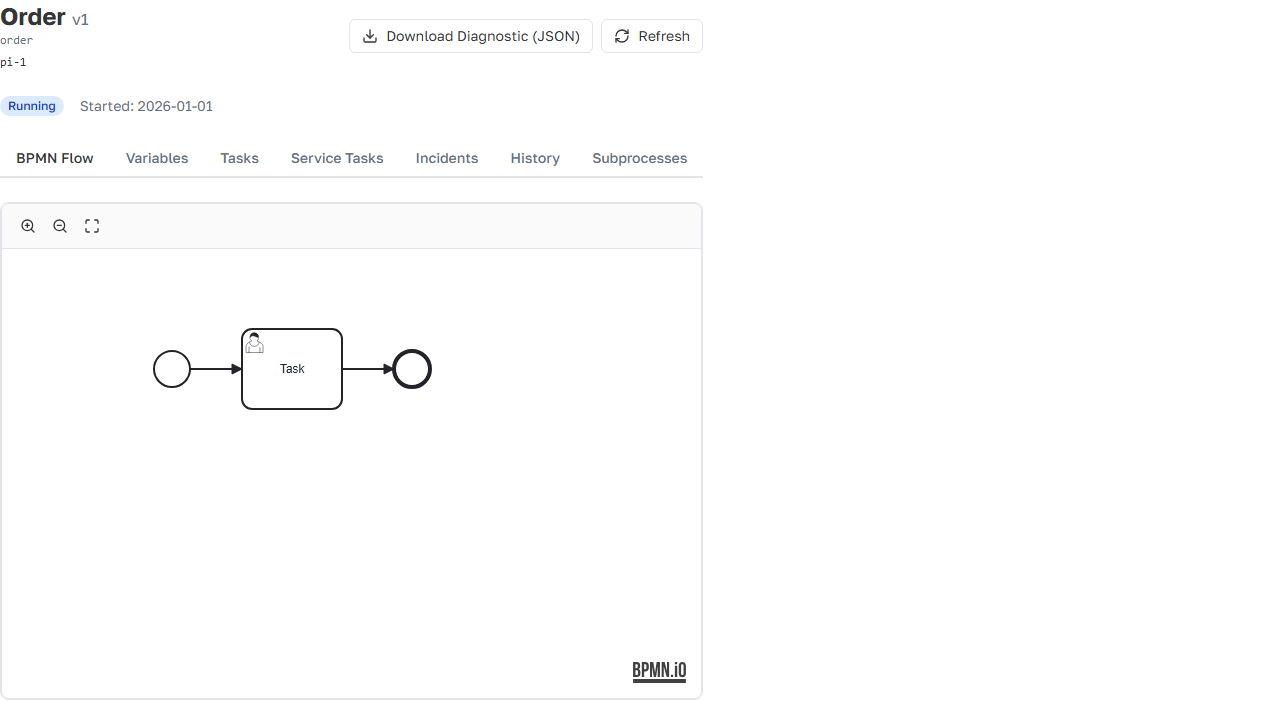
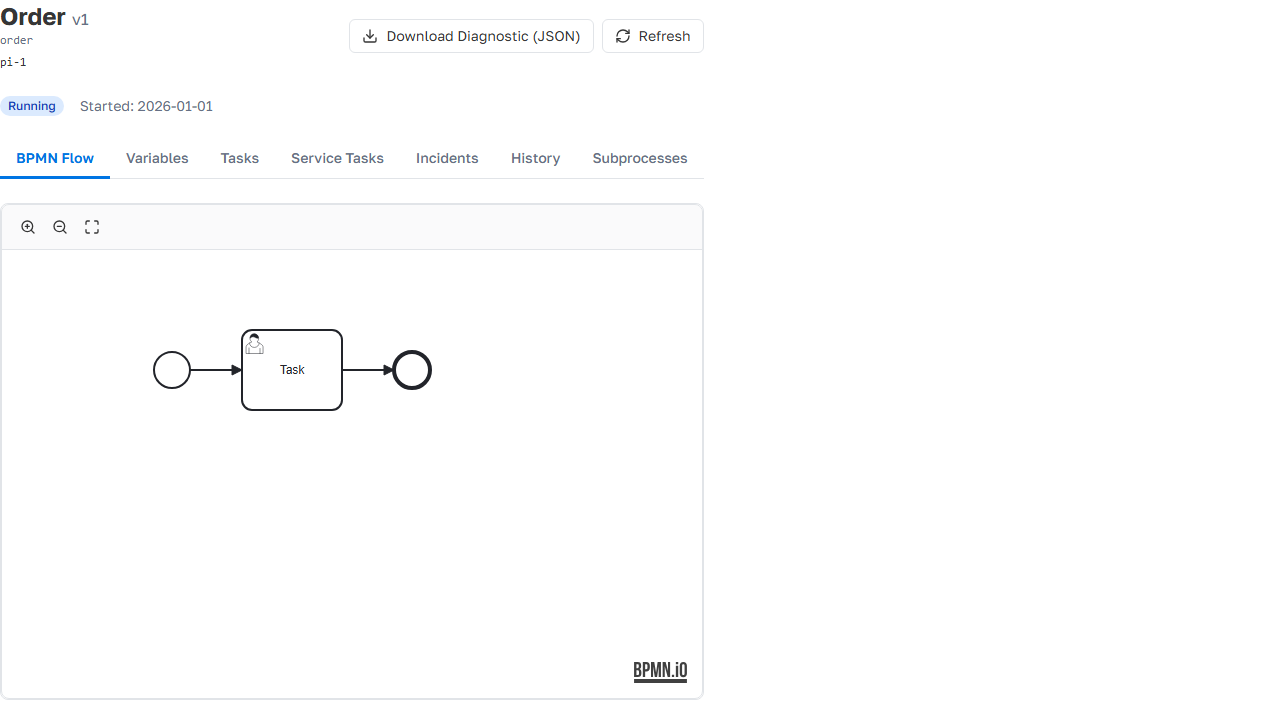
feat(WO-ACL-15): active tab reads as selected — accent underline, point-color checks
Part D (criteria 13-14): TabsBar underline is now 3px (vs the 1px container
line) and accent; the active caption is accent-colored and semibold. Root
cause found: style.css had an UNLAYERED '* { border-color: ... }' which beats
every Tailwind border-{color} utility in the cascade — border-primary had
never painted; moved the rule into @layer base. Browser checks now sample the
actual painted color at a point under the active vs an inactive tab (different,
accent, not the container border) plus weight/color of the caption; jsdom stays
green under the POF mutation (class unchanged, only the painted color changes).

diff --git a/zorrobpm-frontend/src/visual/visual-geometry.browser.test.ts b/zorrobpm-frontend/src/visual/visual-geometry.browser.test.ts
@@ -302,8 +302,9 @@ describe('WO-TEST-6 check 1 — active tab underline (ProcessInstanceDetail, Tab
     const active = tabBtns.find((b) => b.getAttribute('aria-selected') === 'true')!
     expect(active).toBeTruthy()
     const cs = getComputedStyle(active)
-    // the underline is a real 2px border, not a class with width 0
-    expect(cs.borderBottomWidth).toBe('2px')
+    // the underline is a real 3px border, not a class with width 0 (WO-ACL-15
+    // criterion 13: noticeably thicker than the 1px container line)
+    expect(cs.borderBottomWidth).toBe('3px')
     expect(cs.borderBottomColor).not.toBe('rgba(0, 0, 0, 0)')
     expect(cs.borderBottomColor).not.toBe('transparent')
     // and it reaches the strip's bottom border line (the -mb-px overlap on the
@@ -313,6 +314,26 @@ describe('WO-TEST-6 check 1 — active tab underline (ProcessInstanceDetail, Tab
     const navRect = nav.getBoundingClientRect()
     expect(btnRect.bottom).toBeGreaterThanOrEqual(navRect.bottom - 0.5)
     expect(btnRect.bottom).toBeLessThanOrEqual(navRect.bottom + 0.5)
+
+    // WO-ACL-15 criterion 13: the ACTUAL PAINTED color at a point on the line
+    // under the active tab differs from the same point under an inactive tab,
+    // and under the active one it is the ACCENT color, not the container border.
+    const inactive = tabBtns.find((b) => b.getAttribute('aria-selected') === 'false')!
+    const inactiveRect = inactive.getBoundingClientRect()
+    const activePoint = document.elementFromPoint(btnRect.left + btnRect.width / 2, btnRect.bottom - 1)
+    const inactivePoint = document.elementFromPoint(inactiveRect.left + inactiveRect.width / 2, inactiveRect.bottom - 1)
+    expect(activePoint).toBeTruthy()
+    expect(inactivePoint).toBeTruthy()
+    const activeColor = getComputedStyle(activePoint as Element).borderBottomColor
+    const inactiveColor = getComputedStyle(inactivePoint as Element).borderBottomColor
+    const containerBorder = getComputedStyle(nav.parentElement!).borderTopColor
+    expect(activeColor).not.toBe(inactiveColor)
+    expect(activeColor).not.toBe(containerBorder)
+    // active caption: accent color and heavier weight than the inactive ones
+    expect(getComputedStyle(active).color).not.toBe(getComputedStyle(inactive).color)
+    expect(Number.parseFloat(getComputedStyle(active).fontWeight)).toBeGreaterThan(
+      Number.parseFloat(getComputedStyle(inactive).fontWeight),
+    )
 
     await page.screenshot({ path: `${SHOT_DIR}/wo-acl-14-instance-tabs.png` })
   })
@@ -329,13 +350,30 @@ describe('WO-TEST-6 check 1b — active tab underline (ProcessDefinitionDetail, 
     const active = tabBtns.find((b) => b.getAttribute('aria-selected') === 'true')!
     expect(active).toBeTruthy()
     const cs = getComputedStyle(active)
-    expect(cs.borderBottomWidth).toBe('2px')
+    expect(cs.borderBottomWidth).toBe('3px')
     expect(cs.borderBottomColor).not.toBe('rgba(0, 0, 0, 0)')
     expect(cs.borderBottomColor).not.toBe('transparent')
     const btnRect = active.getBoundingClientRect()
     const navRect = nav.getBoundingClientRect()
     expect(btnRect.bottom).toBeGreaterThanOrEqual(navRect.bottom - 0.5)
     expect(btnRect.bottom).toBeLessThanOrEqual(navRect.bottom + 0.5)
+
+    // WO-ACL-15 criterion 13 (same point-color assertions as the instance strip)
+    const inactive = tabBtns.find((b) => b.getAttribute('aria-selected') === 'false')!
+    const inactiveRect = inactive.getBoundingClientRect()
+    const activePoint = document.elementFromPoint(btnRect.left + btnRect.width / 2, btnRect.bottom - 1)
+    const inactivePoint = document.elementFromPoint(inactiveRect.left + inactiveRect.width / 2, inactiveRect.bottom - 1)
+    expect(activePoint).toBeTruthy()
+    expect(inactivePoint).toBeTruthy()
+    const activeColor = getComputedStyle(activePoint as Element).borderBottomColor
+    const inactiveColor = getComputedStyle(inactivePoint as Element).borderBottomColor
+    const containerBorder = getComputedStyle(nav.parentElement!).borderTopColor
+    expect(activeColor).not.toBe(inactiveColor)
+    expect(activeColor).not.toBe(containerBorder)
+    expect(getComputedStyle(active).color).not.toBe(getComputedStyle(inactive).color)
+    expect(Number.parseFloat(getComputedStyle(active).fontWeight)).toBeGreaterThan(
+      Number.parseFloat(getComputedStyle(inactive).fontWeight),
+    )
 
     await page.screenshot({ path: `${SHOT_DIR}/wo-acl-14-definition-tabs.png` })
   })

diff --git a/zorrobpm-frontend/src/widgets/shared/TabsBar.test.ts b/zorrobpm-frontend/src/widgets/shared/TabsBar.test.ts
@@ -4,7 +4,7 @@
  *   1  — the component is the single tab implementation (the two old local
  *        strips in ProcessDefinitionDetail / ProcessInstanceDetail are gone;
  *        grep-level proof lives in the report, structure-level here);
- *   2  — the active tab carries the visible underline classes (border-b-2 +
+ *   2  — the active tab carries the visible underline classes (border-b-[3px] +
  *        border-primary on the button, the single -mb-px on the nav — the
  *        visual visibility itself is a browser check, see the browser suite);
  *   4  — keyboard: ArrowLeft/Right rotate, Home/End jump to the edges,
@@ -46,7 +46,10 @@ describe('TabsBar (WO-ACL-14 criteria 1/2/4/5)', () => {
     const active = wrapper.findAll('button[role="tab"]').filter((b) => b.classes().includes('border-primary'))
     expect(active).toHaveLength(1)
     expect(active[0].text()).toBe('Beta')
-    expect(active[0].classes()).toContain('border-b-2')
+    expect(active[0].classes()).toContain('border-b-[3px]')
+    // WO-ACL-15 criterion 13: the active caption is accent + heavier
+    expect(active[0].classes()).toContain('text-primary')
+    expect(active[0].classes()).toContain('font-semibold')
     // aria-selected mirrors the active id
     expect(active[0].attributes('aria-selected')).toBe('true')
   })
@@ -57,7 +60,7 @@ describe('TabsBar (WO-ACL-14 criteria 1/2/4/5)', () => {
     expect(nav.classes()).toContain('-mb-px')
     for (const b of nav.findAll('button')) {
       expect(b.classes()).not.toContain('-mb-px')
-      expect(b.classes()).toContain('border-b-2')
+      expect(b.classes()).toContain('border-b-[3px]')
     }
   })
 

diff --git a/zorrobpm-frontend/src/widgets/shared/TabsBar.vue b/zorrobpm-frontend/src/widgets/shared/TabsBar.vue
@@ -73,9 +73,9 @@ watch(
       :key="tab.id"
       role="tab"
       :aria-selected="activeId === tab.id ? 'true' : 'false'"
-      class="shrink-0 px-4 py-2 text-sm font-medium border-b-2 transition-colors whitespace-nowrap"
+      class="shrink-0 px-4 py-2 text-sm font-medium border-b-[3px] transition-colors whitespace-nowrap"
       :class="activeId === tab.id
-        ? 'border-primary text-foreground'
+        ? 'border-primary text-primary font-semibold'
         : 'border-transparent text-muted-foreground hover:text-foreground hover:border-border'"
       @click="emit('update:activeId', tab.id)"
     >

diff --git a/zorrobpm-frontend/src/style.css b/zorrobpm-frontend/src/style.css
@@ -67,6 +67,13 @@ body {
   background: var(--color-background);
 }
 
-* {
-  border-color: var(--color-border);
+@layer base {
+  /* Default border color for elements that do not set one via a utility.
+     MUST live in a layer: unlayered rules beat ALL Tailwind utilities in the
+     cascade, and this rule was silently overriding border-{color} classes —
+     e.g. TabsBar's border-primary never painted the accent underline
+     (WO-ACL-15 criterion 13). */
+  * {
+    border-color: var(--color-border);
+  }
 }

diff --git a/zorrobpm-frontend/src/pages/processes/ProcessInstanceDetail.acl10.test.ts b/zorrobpm-frontend/src/pages/processes/ProcessInstanceDetail.acl10.test.ts
@@ -81,7 +81,7 @@ describe('ProcessInstanceDetail — WO-ACL-10 criterion 10', () => {
     expect(tabs.length).toBeGreaterThanOrEqual(7)
     for (const b of tabs) {
       expect(b.classes()).not.toContain('-mb-px')
-      expect(b.classes()).toContain('border-b-2')
+      expect(b.classes()).toContain('border-b-[3px]')
     }
     // the active (first, bpmn) tab is highlighted
     const active = tabs.filter((b) => b.classes().includes('border-primary'))

diff --git a/zorrobpm-frontend/src/pages/processes/ProcessDefinitionDetail.acl10.test.ts b/zorrobpm-frontend/src/pages/processes/ProcessDefinitionDetail.acl10.test.ts
@@ -141,7 +141,7 @@ describe('ProcessDefinitionDetail — WO-ACL-10 criteria 7-9', () => {
     expect(tabs.length).toBeGreaterThanOrEqual(6)
     for (const b of tabs) {
       expect(b.classes()).not.toContain('-mb-px')
-      expect(b.classes()).toContain('border-b-2')
+      expect(b.classes()).toContain('border-b-[3px]')
     }
   })
 
